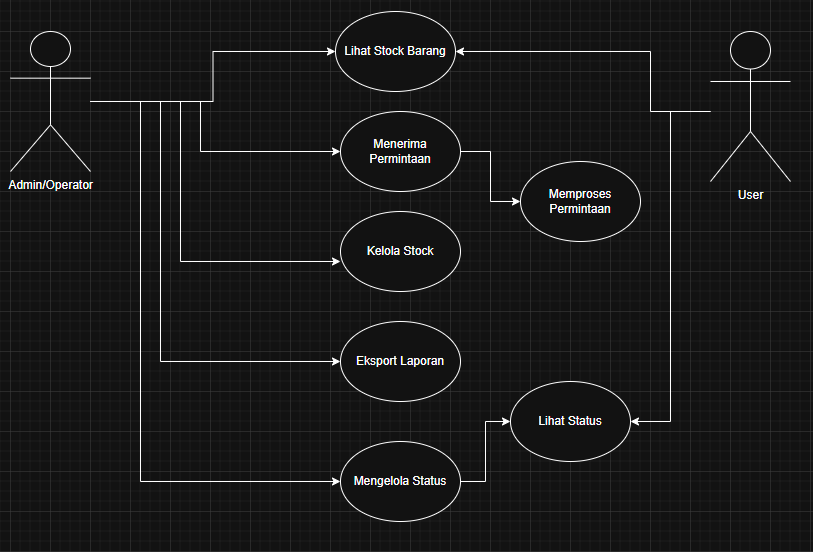
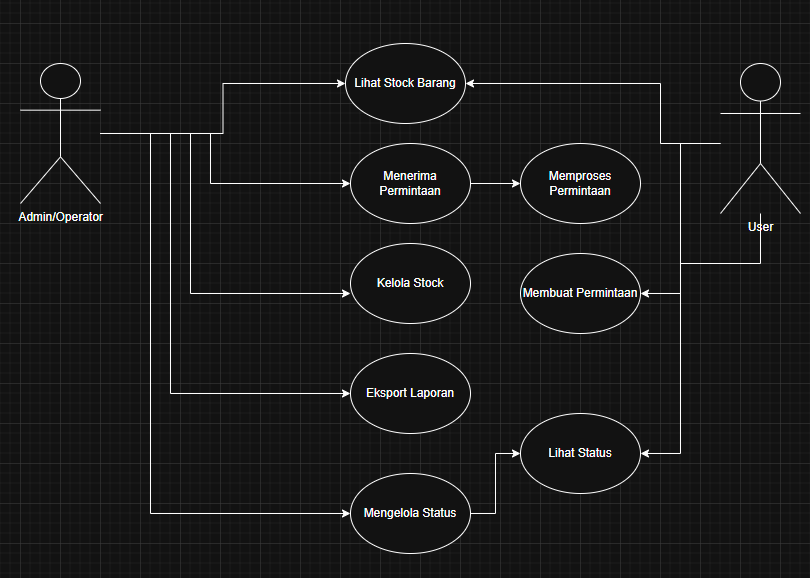
update

diff --git a/README.md b/README.md
@@ -76,7 +76,7 @@ Aplikasi ini dikembangkan sebagai bagian dari **Uji Kompetensi** dengan fokus pa
 
 ![Use Case Diagram - Sistem Manajemen Barang](./docs/UseCaseDiagram.png)
 
-_Gambar di atas menunjukkan interaksi antara aktor (Karyawan, Operator) dengan sistem manajemen barang, termasuk semua fungsi dan proses utama._
+_Gambar di atas menunjukkan interaksi antara aktor (User, Operator) dengan sistem manajemen barang, termasuk semua fungsi dan proses utama._
 
 ---
 
